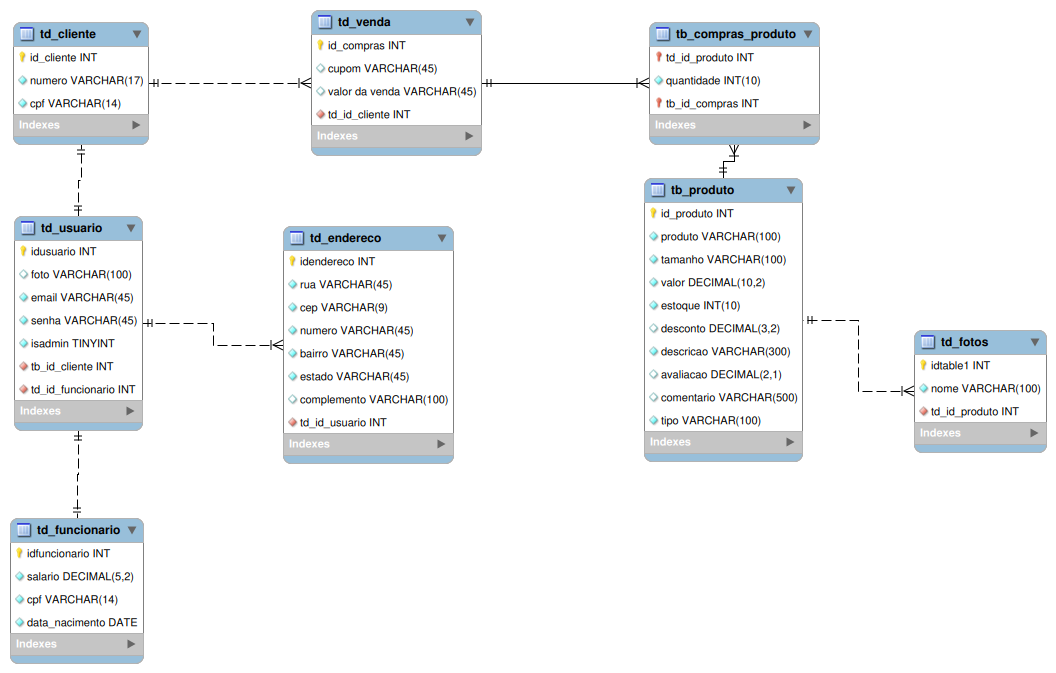
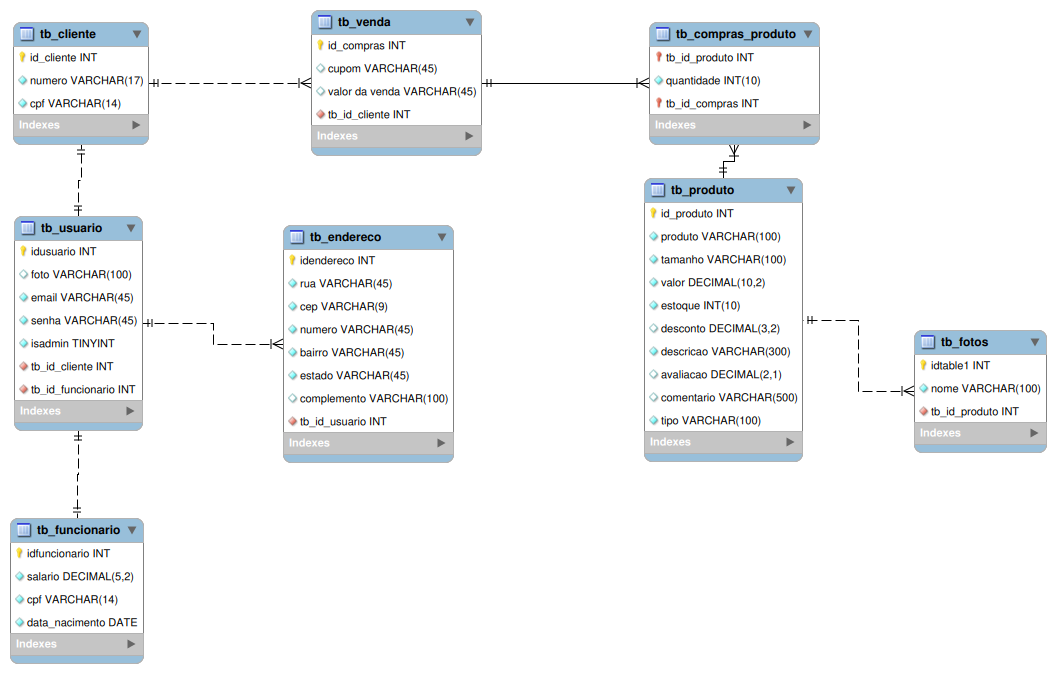
organizado

Changed region(s): [[0.25, 0.312, 0.4062, 0.6865], [0.4062, 0.3432, 0.4375, 0.3744]]

diff --git a/public/controle/func.php b/public/controle/func.php
@@ -19,14 +19,14 @@ function salvarProduto($conexao,$produto,$tamanho,$valor,$estoque,$desconto,$des
 
 }
 
-function editarProduto($conexao,$produto,$tamanho,$valor,$estoque,$desconto,$descricao,$avaliacao,$comentario,$tipo,$id_produto,) {
-    $sql = "INSERT INTO tb_produto (produto,tamanho,valor,estoque,desconto,descricao,avaliacao,comentario,tipo)
-    
-    VALUES (?, ?, ?, ?, ?, ?, ?, ?, ?)";
 
+
+function editarProduto($conexao,$produto,$tamanho,$valor,$estoque,$desconto,$descricao,$avaliacao,$comentario,$tipo,$id_produto) {
+    
+    $sql = "UPDATE tb_produto SET produto=?, tamanho=?, valor=?,estoque=?,desconto=?,descricao=?,avaliacao=?,comentario=?,tipo=? WHERE id_produto=?";
     $comando = mysqli_prepare($conexao, $sql);
     
-    mysqli_stmt_bind_param($comando, 'ssdddsdss', $produto, $tamanho,$valor,$estoque,$desconto,$descricao,$avaliacao,$comentario,$tipo);
+    mysqli_stmt_bind_param($comando, 'ssdidsdssi', $produto, $tamanho,$valor,$estoque,$desconto,$descricao,$avaliacao,$comentario,$tipo,$id_produto);
 
     $funcionou = mysqli_stmt_execute($comando);
 
@@ -35,12 +35,12 @@ function editarProduto($conexao,$produto,$tamanho,$valor,$estoque,$desconto,$des
 
 
 }
-
-function deletarProduto($conexao, $idproduto) {
-    $sql = "DELETE FROM  tb_produto WHERE idproduto = ?";
+    
+function deletarProduto($conexao, $id_produto) {
+    $sql = "DELETE FROM  tb_produto WHERE id_produto = ?";
     $comando = mysqli_prepare($conexao, $sql);
 
-    mysqli_stmt_bind_param($comando, 'i', $idproduto);
+    mysqli_stmt_bind_param($comando, 'i', $id_produto);
     $funcionou = mysqli_stmt_execute($comando);
 
     mysqli_stmt_close($comando);
@@ -65,13 +65,10 @@ function listarProduto($conexao) {
 
 
 
-
-    // mudar nomes
-
-function salvarCliente($conexao) { $sql = "INSERT INTO tb_cliente (nome, cpf, endereco) VALUES (?, ?, ?)";
+function salvarCliente($conexao) { $sql = "INSERT INTO tb_cliente (numero, cpf ) VALUES (?, ?)";
     $comando = mysqli_prepare($conexao, $sql);
     
-    mysqli_stmt_bind_param($comando, 'sss', $nome, $cpf, $endereco);
+    mysqli_stmt_bind_param($comando, 'ss', $numero, $cpf);
     
     $funcionou = mysqli_stmt_execute($comando);
     
@@ -80,7 +77,7 @@ function salvarCliente($conexao) { $sql = "INSERT INTO tb_cliente (nome, cpf, en
 
 
 function editarCliente($conexao, $id_cliente, $numero, $cpf) {
-    $sql = "INSERT INTO td_produto (numero, cpf)
+    $sql = "INSERT INTO tb_produto (numero, cpf)
     
     VALUES (?, ?)";
 
@@ -139,7 +136,7 @@ function salvarVenda($conexao, $cupom, $valor_da_venda, $tb_id_cliente) {
 };
 
 function editarVenda($conexao, $id_compras, $cupom, $valor_da_venda, $td_id_cliente ) {
-    $sql = "INSERT INTO td_venda(id_compras, cupom, valor_da_venda, td_id_cliente)
+    $sql = "INSERT INTO tb_venda(id_compras, cupom, valor_da_venda, td_id_cliente)
     
     VALUES (?,?,?,?)";
 
@@ -185,7 +182,7 @@ function listarVenda($conexao, ){
 function salvarUsuario() {};
 
 function editarUsuario($conexao, $idusuario, $foto, $email, $senha, $isadmin, $tb_id_cliente, $td_id_funcionario ) {
-    $sql = "INSERT INTO td_usuario(idusuario, foto, email, senha, isadmin, tb_id_cliente, td_id_funcionario)
+    $sql = "INSERT INTO tb_usuario(idusuario, foto, email, senha, isadmin, tb_id_cliente, td_id_funcionario)
     
     VALUES (?,?,?,?,?,?,?)";
 
@@ -217,7 +214,7 @@ function listarrUsuario() {};
 function salvarFuncionario() {};
 
 function editarFuncionario($conexao, $idfuncionario, $salario, $cpf, $data_nascimento ) {
-    $sql = "INSERT INTO td_funcionario(idfuncionario, salario, cpf, data_nascimento )
+    $sql = "INSERT INTO tb_funcionario(idfuncionario, salario, cpf, data_nascimento )
     
     VALUES (?,?,?,?)";
 

diff --git a/public/controle/test/Eproduto.php b/public/controle/test/Eproduto.php
@@ -10,11 +10,11 @@ $desconto = 2;
 $descricao = "aaaaaaaaaaaaaa";
 $avaliacao = 5;
 $comentario ="aaaaaaaaaaaaaaaaaaaa";
-$tipo = "moleton";
+$tipo = "moletom";
 $id_produto = 1;
 
 
 
 editarProduto($conexao,$produto,$tamanho,$valor,$estoque,$desconto,$descricao,$avaliacao,$comentario,$tipo,$id_produto);
 
-?>
+?>  

diff --git a/public/controle/test/Scliente.php b/public/controle/test/Scliente.php
@@ -1,12 +1,12 @@
 <?php
 require_once "../conexao.php";
-require_once "../funcoes.php";
+require_once "../func.php";
 
-$nome="test";
+$numero="192738213";
 $cpf="200.000.000-00";
-$endereco="tesGDFGDFt"; 
 
-salvarCliente($conexao,$nome,$cpf,$endereco);
+
+salvarCliente($conexao,$numero,$cpf,);
         
 
 ?>

diff --git a/public/controle/test/Lvenda.php b/public/controle/test/Lvenda.php
@@ -1,8 +1,9 @@
 <?php
 require_once "../conexao.php";
-require_once "../funcoes.php";
+require_once "../func.php";
 
-echo"<pre>";
+echo "<pre>";
 print_r(listarVenda($conexao));
-echo"</pre>";
+echo "</pre>";
+
 ?>

diff --git a/public/controle/test/Dproduto.php b/public/controle/test/Dproduto.php
@@ -1,0 +1,10 @@
+<?php
+
+require_once "../conexao.php";
+require_once "../func.php";
+
+$id_produto = 2;
+
+deletarProduto($conexao, $id_produto);
+
+?>
